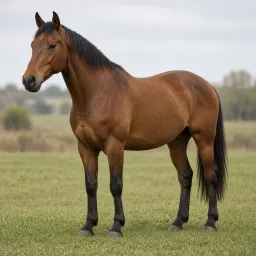
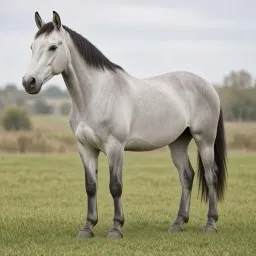
feat(atlas): unique equid and bird host portraits (#267)

diff --git a/tests/client/atlasEntry.test.ts b/tests/client/atlasEntry.test.ts
@@ -221,6 +221,28 @@ describe("entryGlance", () => {
     expect(turkey.equals(hostBytes("bird"))).toBe(false);
   });
 
+  it("maps equid and bird to dedicated portraits", () => {
+    expect(resolveHostPortrait("equid")).toEqual({
+      src: "/atlas/hosts/equid.webp",
+      archetype: "equid",
+    });
+    expect(resolveHostPortrait("bird")).toEqual({
+      src: "/atlas/hosts/bird.webp",
+      archetype: "bird",
+    });
+  });
+
+  it("ships unique equid and bird host webp bytes", () => {
+    const equid = hostBytes("equid");
+    const bird = hostBytes("bird");
+    expect(equid.equals(hostBytes("horse"))).toBe(false);
+    expect(equid.equals(hostBytes("donkey"))).toBe(false);
+    expect(bird.equals(hostBytes("chicken"))).toBe(false);
+    expect(bird.equals(hostBytes("turkey"))).toBe(false);
+    expect(bird.equals(hostBytes("pheasant"))).toBe(false);
+    expect(bird.equals(hostBytes("gamebird"))).toBe(false);
+  });
+
   it("resolves site portraits via broader chain", () => {
     expect(resolveSitePortrait("bile ducts")?.archetype).toBe("bile ducts");
     expect(resolveSitePortrait("ileum")?.src).toMatch(/ileum\.webp$/);
